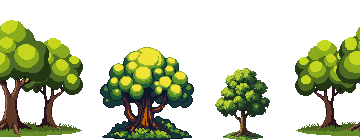
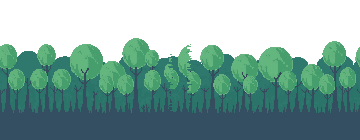
A3 iteration: proper mid-distance treeline + band-overlap anchoring
Art: continuous canopy mass at one scale, ~75% saturation cooled
toward the ridge, no interiors, shadowed understory fading dark and
solid to the bottom edge (replaces the foreground-treatment trees).
Generated with ART-BIBLE S3's mid row spelled out in the prompt —
without it the generator defaults to foreground treatment (LEARNINGS).
Sky came back as 2 flat painted tones; dual chroma-key + offset-180 +
jagged clone-patch, per-row opacity verified.

Code: bands now OVERLAP instead of touching — mid runs to y=490 (16px
buried behind the path lip, which is blade-transparent to row 14);
far's bottom is covered by mid's continuous understory. Verified via
screenshots at two offsets incl. the wrap point, day + dusk, plus a
20:9 tall viewport (FIT keeps game-coord geometry identical).

diff --git a/src/game/scenes/Game.js b/src/game/scenes/Game.js
@@ -11,13 +11,17 @@ import {
 //  The world is 4 horizontal bands (back to front), each scrolling
 //  right-to-left at its own speed — slower = further away (parallax).
 //  Wanda never moves; the world slides past her.
+//  ANCHORING RULE: adjacent bands must OVERLAP, never merely touch. The
+//  path band's grass lip is transparent between blades until its row 14
+//  (screen y=474), so whatever sits behind it must stay opaque through
+//  that zone. mid runs to y=490 (16px buried behind the path); far runs
+//  to y=460 and is covered by mid's continuous understory. A band whose
+//  element bases end AT a boundary will flash background through the lip.
 const LAYERS = [
     { key: 'clouds', top: 30,  height: 180, speed: 6 },
-    //  The far band's bottom sits exactly on the path top, so the ridge
-    //  grounds the horizon and the mid trees stand in front of it —
-    //  its painted haze top dissolves into the matching background sky.
+    //  far's painted haze top dissolves into the matching background sky.
     { key: 'far',    top: 340, height: 120, speed: 14 },
-    { key: 'mid',    top: 320, height: 140, speed: 32 },
+    { key: 'mid',    top: 350, height: 140, speed: 32 },
     { key: 'path',   top: 460, height: 180, speed: 70 }
 ];
 

diff --git a/ART-QUEUE.md b/ART-QUEUE.md
@@ -319,3 +319,22 @@ already earned during the placeholder build:
 - **v3 fills ~92% of the asked size** (C's figure is 59px tall in a
   64px request). Fine here — but if exact fill matters, ask a size
   notch larger and crop.
+- **Layer prompts must state their §3 depth row EXPLICITLY** (the
+  saturation %, cooled hue, outline weight, clusters-only, continuous
+  mass) or the generator defaults to foreground treatment. The first
+  A3 delivered full-saturation outlined standalone trees with grass
+  mounds; the regen that spelled out "MID-DISTANCE … 75 percent
+  saturation, hue cooled … no interior detail … continuous mass …
+  shadowed understory fading to dark" nailed the row first try.
+- **Band-overlap anchoring rule** (engine + art contract): adjacent
+  parallax bands must OVERLAP, never merely touch. The path band's
+  grass lip is transparent between blades for its top ~14 rows, so
+  the band behind it must stay opaque through that zone — mid now
+  runs 16px past the path top (to y=490) and its bottom ~30 texture
+  rows are continuous opaque understory. Element bases that end
+  exactly at a band boundary flash background through the lip.
+- **Wide strips come back with PAINTED skies** despite "transparent
+  background" — the path had sky-color margins top AND bottom, the
+  treeline an opaque 2-tone sky with cloud blobs. They're always a
+  couple of flat tones: sample and chroma-key, then verify per-row
+  opacity before shipping.